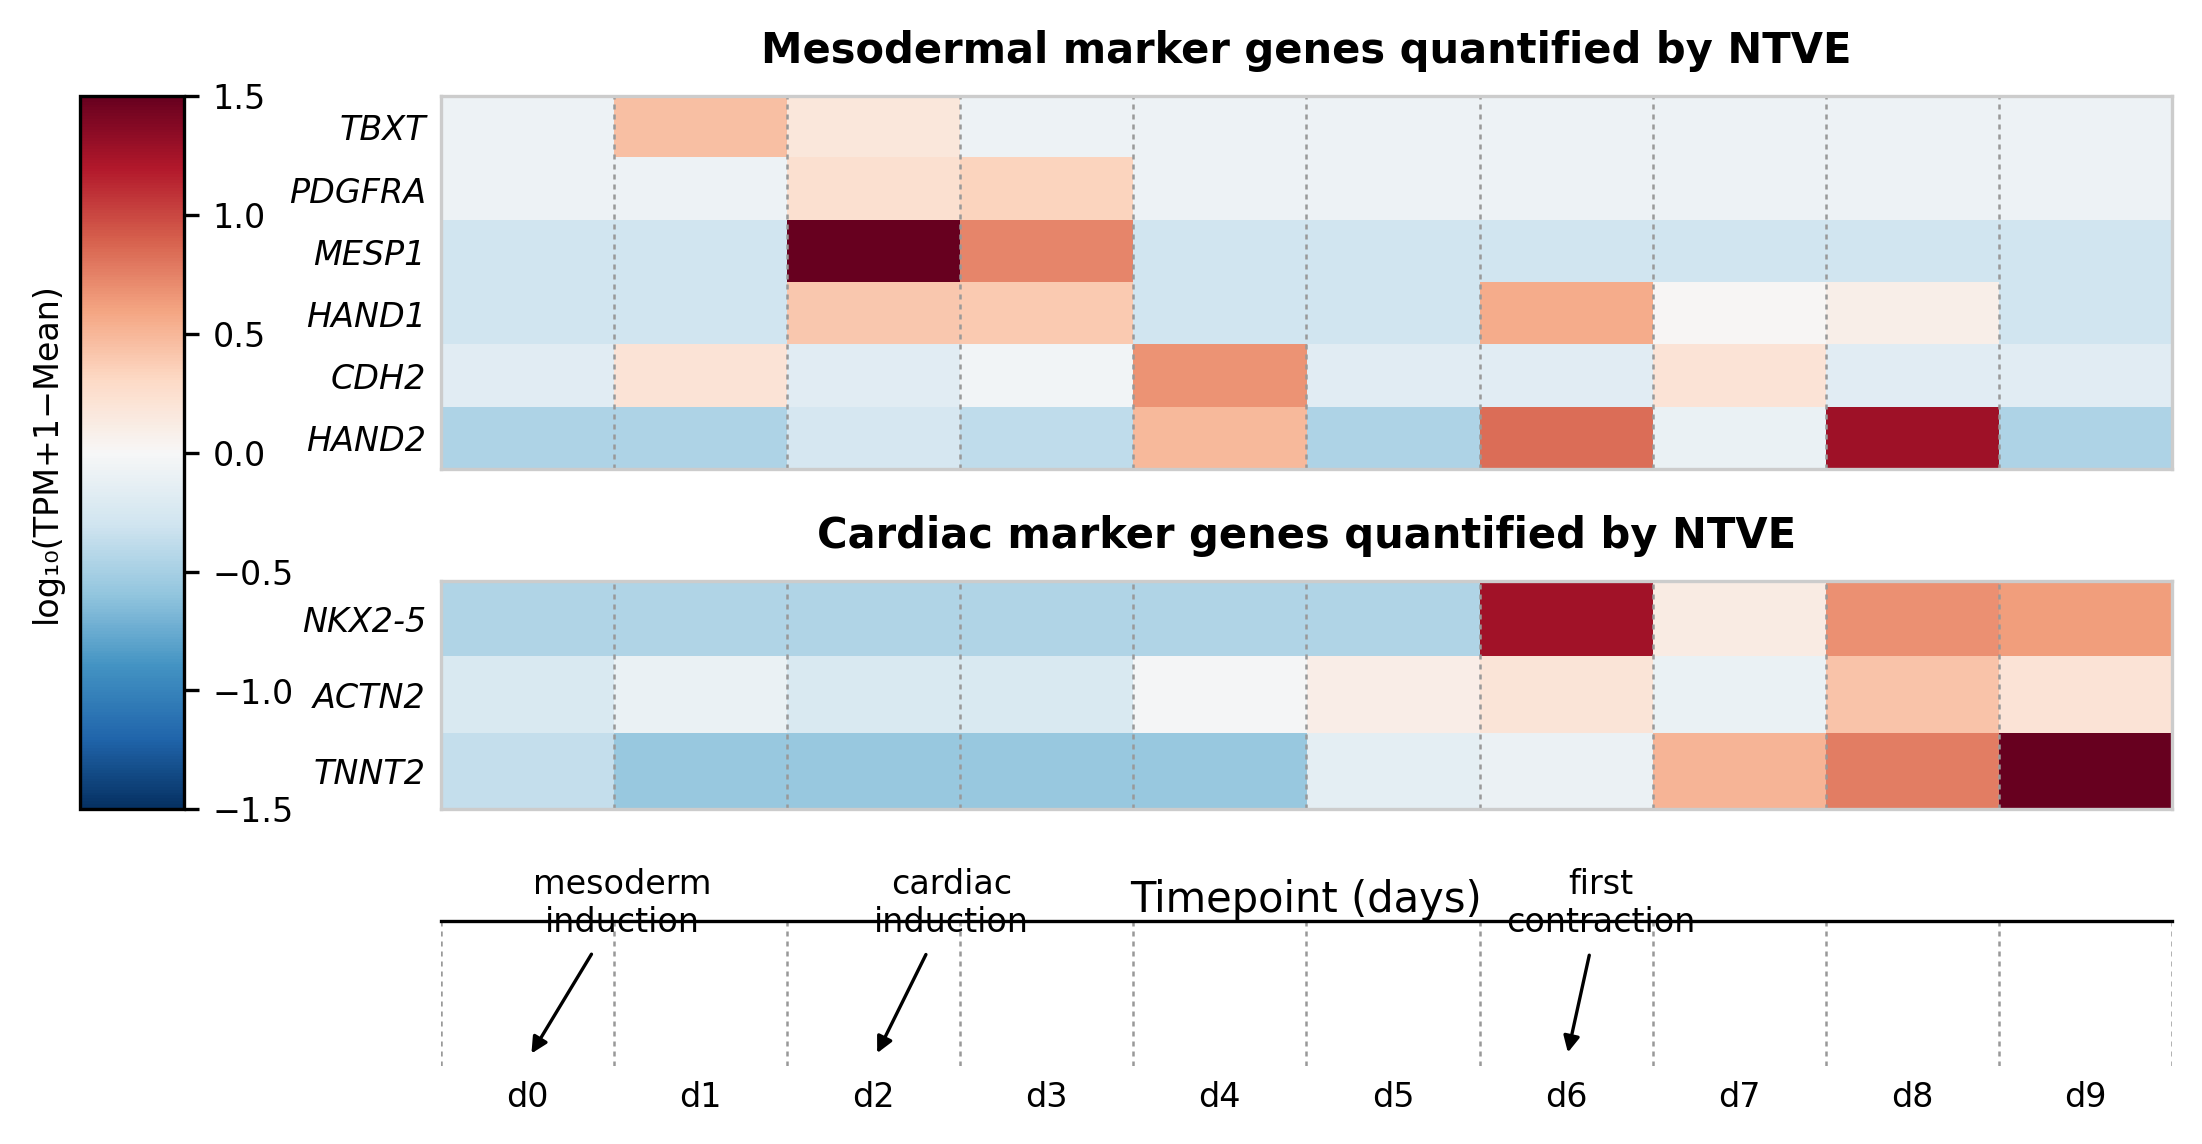
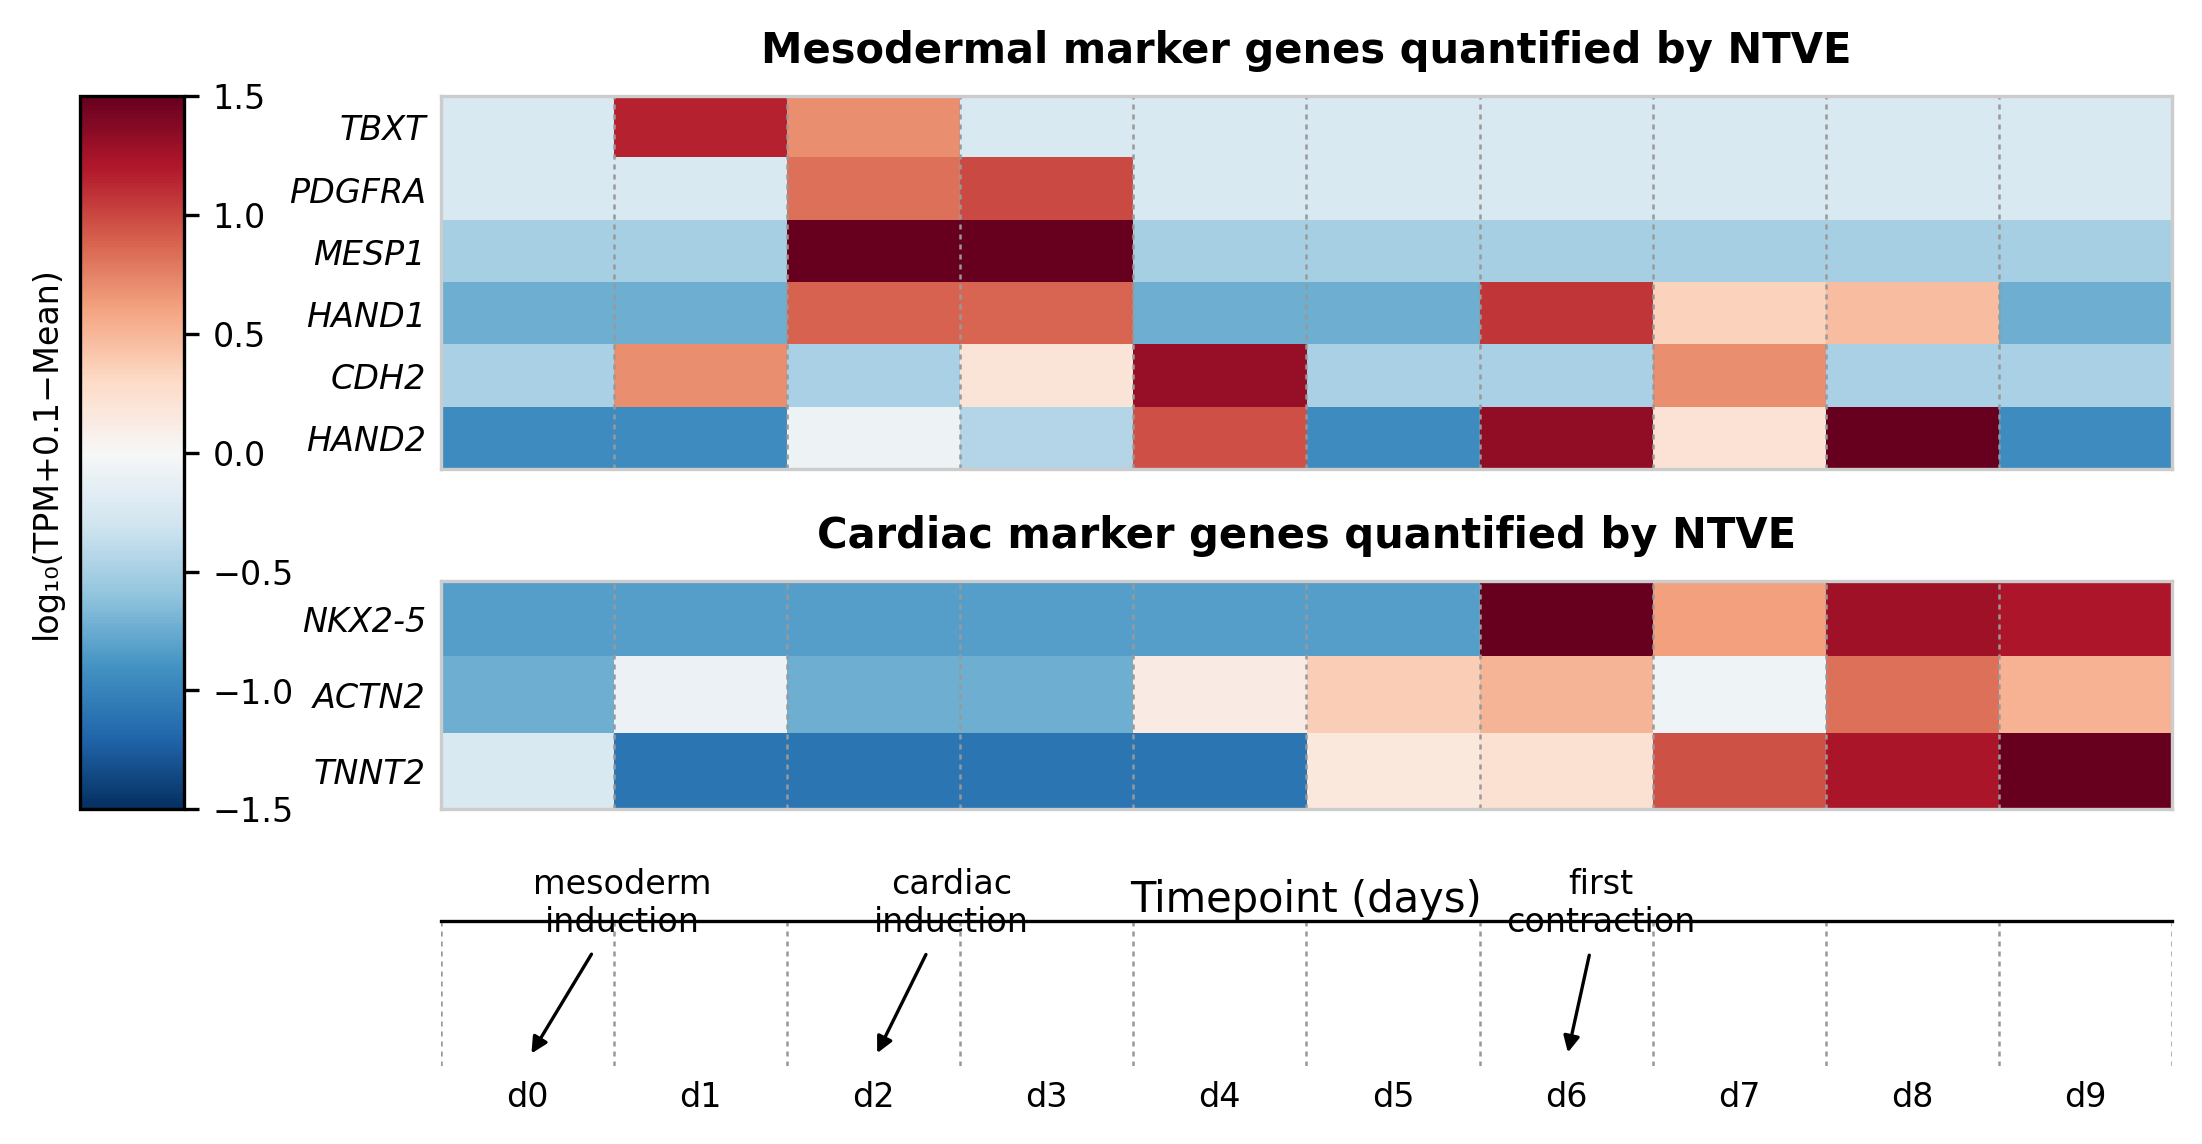
changed suppl21 color scale

Changed region(s): [[0.1853, 0.0612, 0.9882, 0.4283], [0.1853, 0.4895, 0.9882, 0.7037], [0.0, 0.2448, 0.0309, 0.5507]]

diff --git a/Suppl21/suppl21a.py b/Suppl21/suppl21a.py
@@ -31,7 +31,7 @@ CARDIO_PKL = ROOT / "resources" / "cardio_data.pkl"
 MESODERM_MARKERS = ["TBXT", "PDGFRA", "MESP1", "HAND1", "CDH2", "HAND2"]
 CARDIAC_MARKERS = ["NKX2-5", "ACTN2", "TNNT2"]
 DAYS = list(range(10))
-PSEUDOCOUNT = 1
+PSEUDOCOUNT = 0.1
 
 
 def save(fig: plt.Figure, stem: str) -> None:
@@ -114,7 +114,7 @@ def main() -> None:
 
     cbar = plt.colorbar(im, cax=ax_scale)
     cbar.ax.tick_params(labelsize=8)
-    cbar.set_label("log\u2081\u2080(TPM+1\u2212Mean)", fontsize=8, labelpad=4)
+    cbar.set_label(f"log\u2081\u2080(TPM+{PSEUDOCOUNT}\u2212Mean)", fontsize=8, labelpad=4)
     ax_scale.yaxis.set_label_position("left")
 
     ax_timeline.set_xlim(-0.5, len(DAYS) - 0.5)
